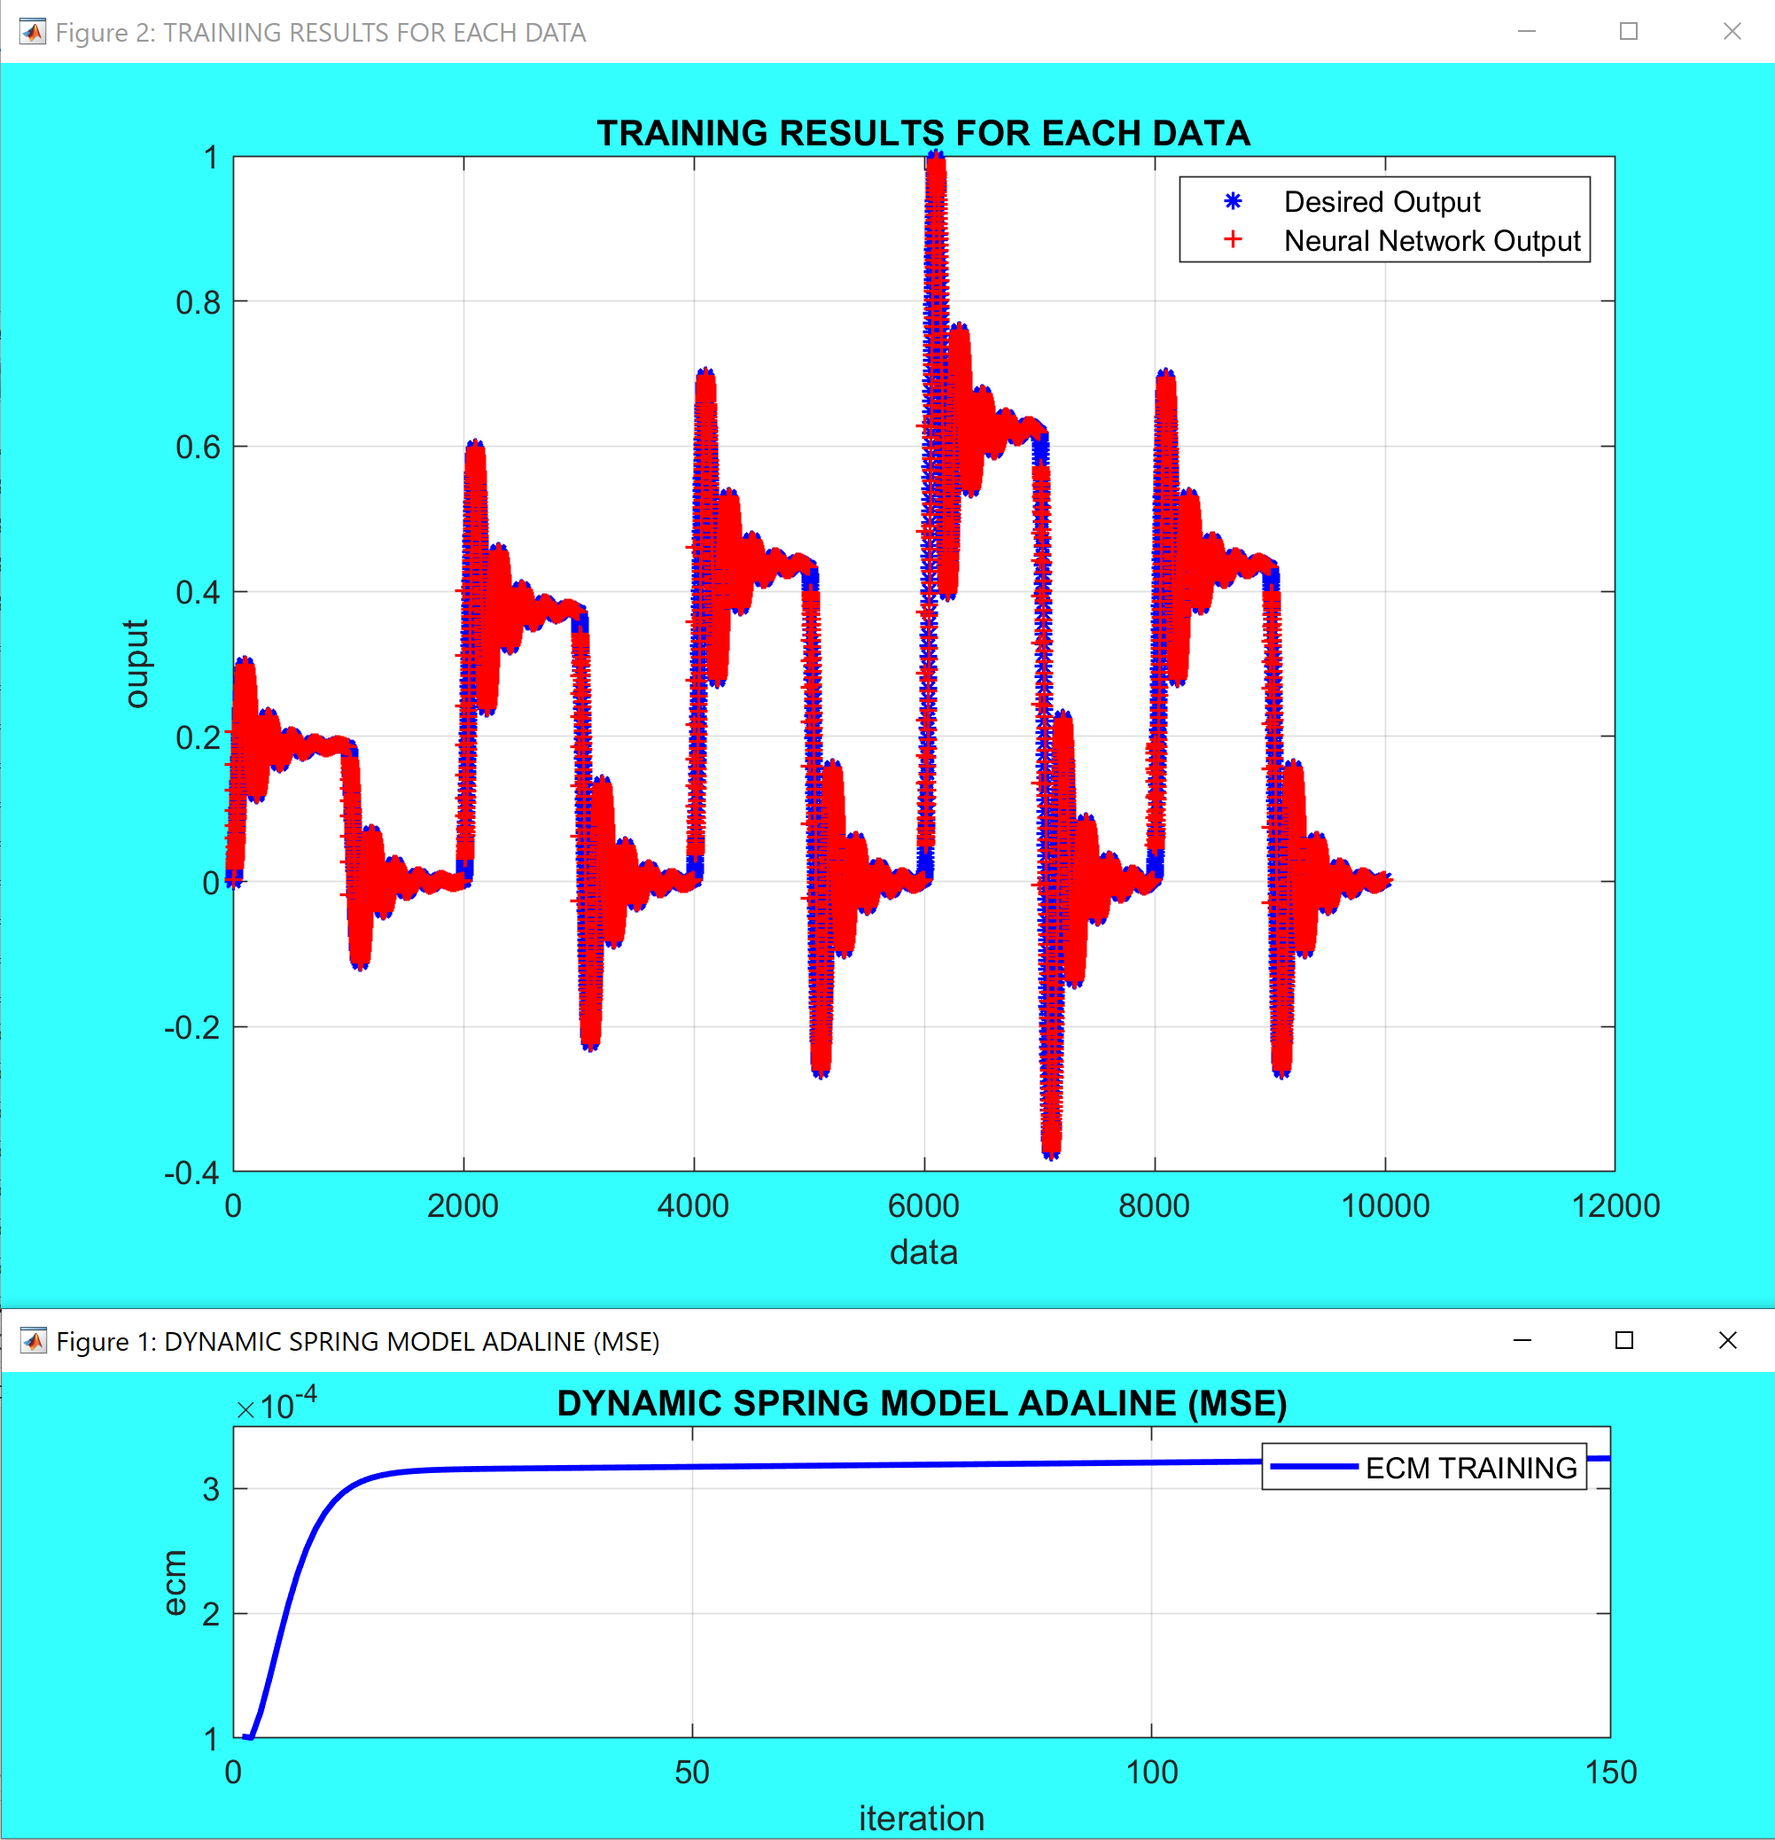
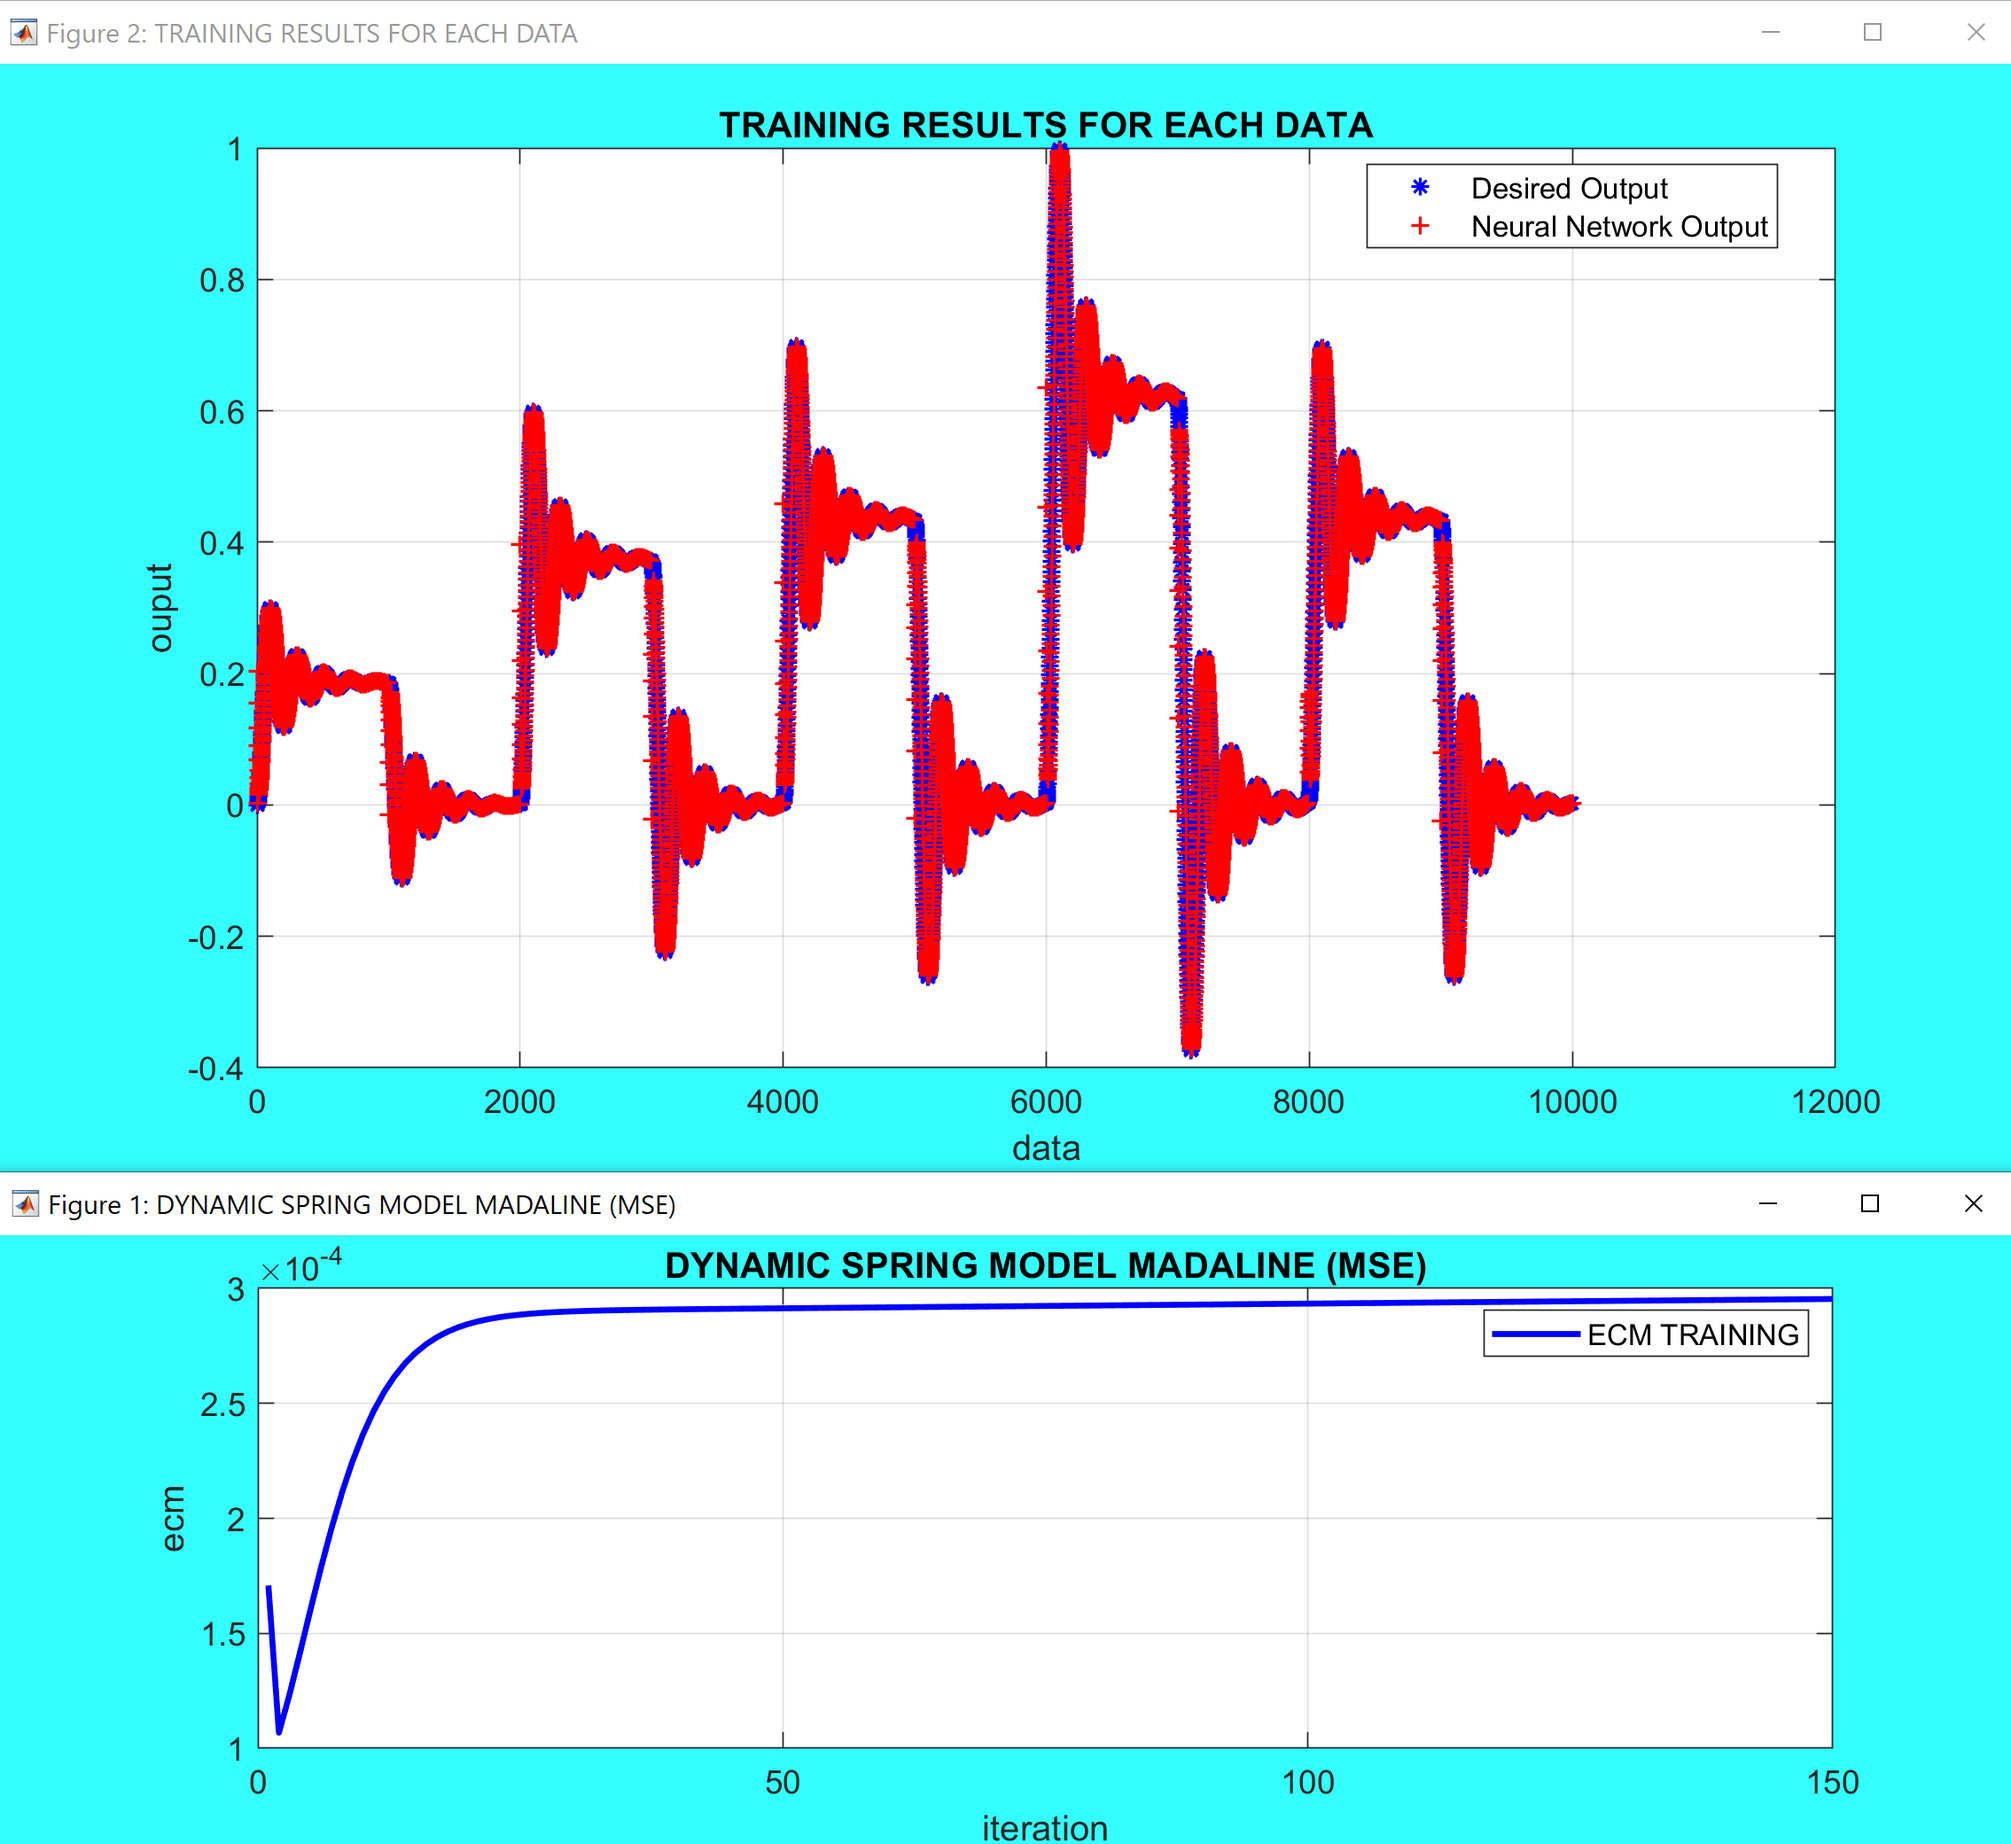
Update assets and typo for madaline execution scripts for 2021 models

diff --git a/03_ML_EIA/MODELS_2021/madaline/executemadalinedecbin.m b/03_ML_EIA/MODELS_2021/madaline/executemadalinedecbin.m
@@ -1,4 +1,4 @@
-% LOADING DATA "STRAIGHT LINE" EXECUTING MADALINE
+% LOADING DATA "DEC-BIN" EXECUTING MADALINE (WITH LAST LAYER AS PERCEPTRON)
 % Santiago Garcia Arango
 
 % Clean workspace data
@@ -9,17 +9,22 @@ addpath(genpath("../"));
 
 % Load data
 fprintf("...Loading database...");
-load("STRAIGHT_LINE.mat");
+load("DEC_BIN.mat");
 
 % -----------------------------------------------------------
 
-% Normalize data (to make them fit in specific (a, 1) range...
-normalizeEntriesValue = (max(max(entries)));
-entries = entries/normalizeEntriesValue;
-normalizeDesiredValue = (max(max(desired)));
-desired = desired/normalizeDesiredValue;
+% % Normalize data (to make them fit in specific (a, 1) range...
+% normalizeEntriesValue = (max(max(entries)));
+% entries = entries/normalizeEntriesValue;
+% normalizeDesiredValue = (max(max(desired)));
+% desired = desired/normalizeDesiredValue;
 
 % Bias does not affect the first layer (only the last one)
+
+% Add custom entries to have more diversity of "inputs"
+entries = [entries; sin(entries(1, :))];
+entries = [entries; cos(entries(1, :))];
+entries = [entries; mod(entries(1, :), 2)];
 
 % -------------------------------------------------------------
 
@@ -36,14 +41,14 @@ fprintf("\t - NUMBER OF DATA (nd) = %d\n", nd);
 % -------------------------------------------------------------
 
 % Get total of hidden layers (no)
-no = 4;
+no = 10;
 fprintf("\t - NUMBER OF HIDDEN LAYERS (no) = %d\n", no);
 
 % -------------------------------------------------------------
 
 % Variables for the training of the model
 alfa = 0.1;  % Training rate
-nmax = 150;  % Number of iterations
+nmax = 100;  % Number of iterations
 fprintf("\t + alfa = %d\n\t + nmax = %d\n", alfa, nmax);
 
 % -------------------------------------------------------------
@@ -66,14 +71,14 @@ fprintf("...Training Neural Network...");
 for m=1:nmax
     % Execute main feedfowardadaline to train or check model
     fprintf("\n-->Iteration = %d\n", m);
-    [Yk, ecm(:, m), W, C] = feedforwardmadaline(alfa,entries, W, C, desired, no, ns, nd, "train", "sigmoidal", "none");
+    [Yk, ecm(:, m), W, C] = feedforwardmadaline(alfa,entries, W, C, desired, no, ns, nd, "train", "sigmoidal", "binary");
 end
 
 % -------------------------------------------------------------
 
-% Revert normalization process
-Yk = Yk.*normalizeDesiredValue;
-desired = desired.*normalizeDesiredValue;
+% % Revert normalization process
+% Yk = Yk.*normalizeDesiredValue;
+% desired = desired.*normalizeDesiredValue;
 
 % -------------------------------------------------------------
 
@@ -86,7 +91,7 @@ for i=1:ns
     ylabel("ecm");
     legend("ECM TRAINING");
     title(strcat("OUTPUT ", num2str(i)));
-    prettygraph("STRAIGHT LINE MODEL MADALINE (MSE)","plot");
+    prettygraph("DEC-BIN MODEL MADALINE-PERCEPTRON (MSE)","plot");
 end
 
 for i=1:ns

diff --git a/03_ML_EIA/MODELS_2021/madaline/feedforwardmadaline.m b/03_ML_EIA/MODELS_2021/madaline/feedforwardmadaline.m
@@ -22,6 +22,7 @@
 %
 %   activation_function_x: "none" to pass "Ys" directly.
 %                        "sigmoidal" to apply 1/(1 + exp(-value))
+%                        "binary" to apply ">=0" or "<0" filter
 % ------------------------------------------------------------------------
 
 
@@ -45,16 +46,17 @@ for i = 1:nd
         hj(2:end) = 1./(1 + exp(-aj));
     end
     
-    % Get output ysk after the hidden layer finds hj
-    ysk = C*hj; % size (ns x 1)
+    % Get output Ys after the hidden layer finds hj
+    Ys = C*hj; % size (ns x 1)
     
     
     % Apply activation function to the output layer
     if activation_function_2 == "none"
-        Yk(:,i) = ysk; % Linear in this case
-    end
-    if activation_function_2 == "sigmoidal"
-        Yk(:,i) = 1./(1 + exp(-ysk));
+        Yk(:,i) = Ys; % Linear in this case
+    elseif activation_function_2 == "sigmoidal"
+        Yk(:,i) = 1./(1 + exp(-Ys));
+    elseif activation_function_2 == "binary"
+        Yk(:,i) = (Ys>=0);
     end
     
     
@@ -70,6 +72,8 @@ for i = 1:nd
             ds = error; % yd - Yk
         elseif activation_function_2 == "sigmoidal"
             ds = error.*(Yk(:,i).*(1-Yk(:,i)));
+        elseif activation_function_2 == "binary"
+            ds = error; % yd - Yk
         end
 
         df1 = ((ds'*C(:,2:end)));

diff --git a/03_ML_EIA/MODELS_2021/madaline/createdecbingate.m b/03_ML_EIA/MODELS_2021/madaline/createdecbingate.m
@@ -1,0 +1,10 @@
+% SIMPLE SCRIPT TO CREATE "DEC-BIN" WORKSPACE AND SAVE IT TO "DEC_BIN.mat"
+% Santiago Garcia Arango
+
+entries = [0, 1, 2, 3, 4, 5, 6, 7];
+desired = [0, 0, 0, 0, 1, 1, 1, 1;
+           0, 0, 1, 1, 0, 0, 1, 1;
+           0, 1, 0, 1, 0, 1, 0, 1];
+
+% Automatically save the data to the "DEC_BIN.mat" workspace
+save("DEC_BIN.mat", "entries", "desired");

diff --git a/03_ML_EIA/MODELS_2021/madaline/executemadalinedynamicspring.m b/03_ML_EIA/MODELS_2021/madaline/executemadalinedynamicspring.m
@@ -86,7 +86,7 @@ for i=1:ns
     ylabel("ecm");
     legend("ECM TRAINING");
     title(strcat("OUTPUT ", num2str(i)));
-    prettygraph("DYNAMIC SPRING MODEL ADALINE (MSE)","plot");
+    prettygraph("DYNAMIC SPRING MODEL MADALINE (MSE)","plot");
 end
 
 for i=1:ns
